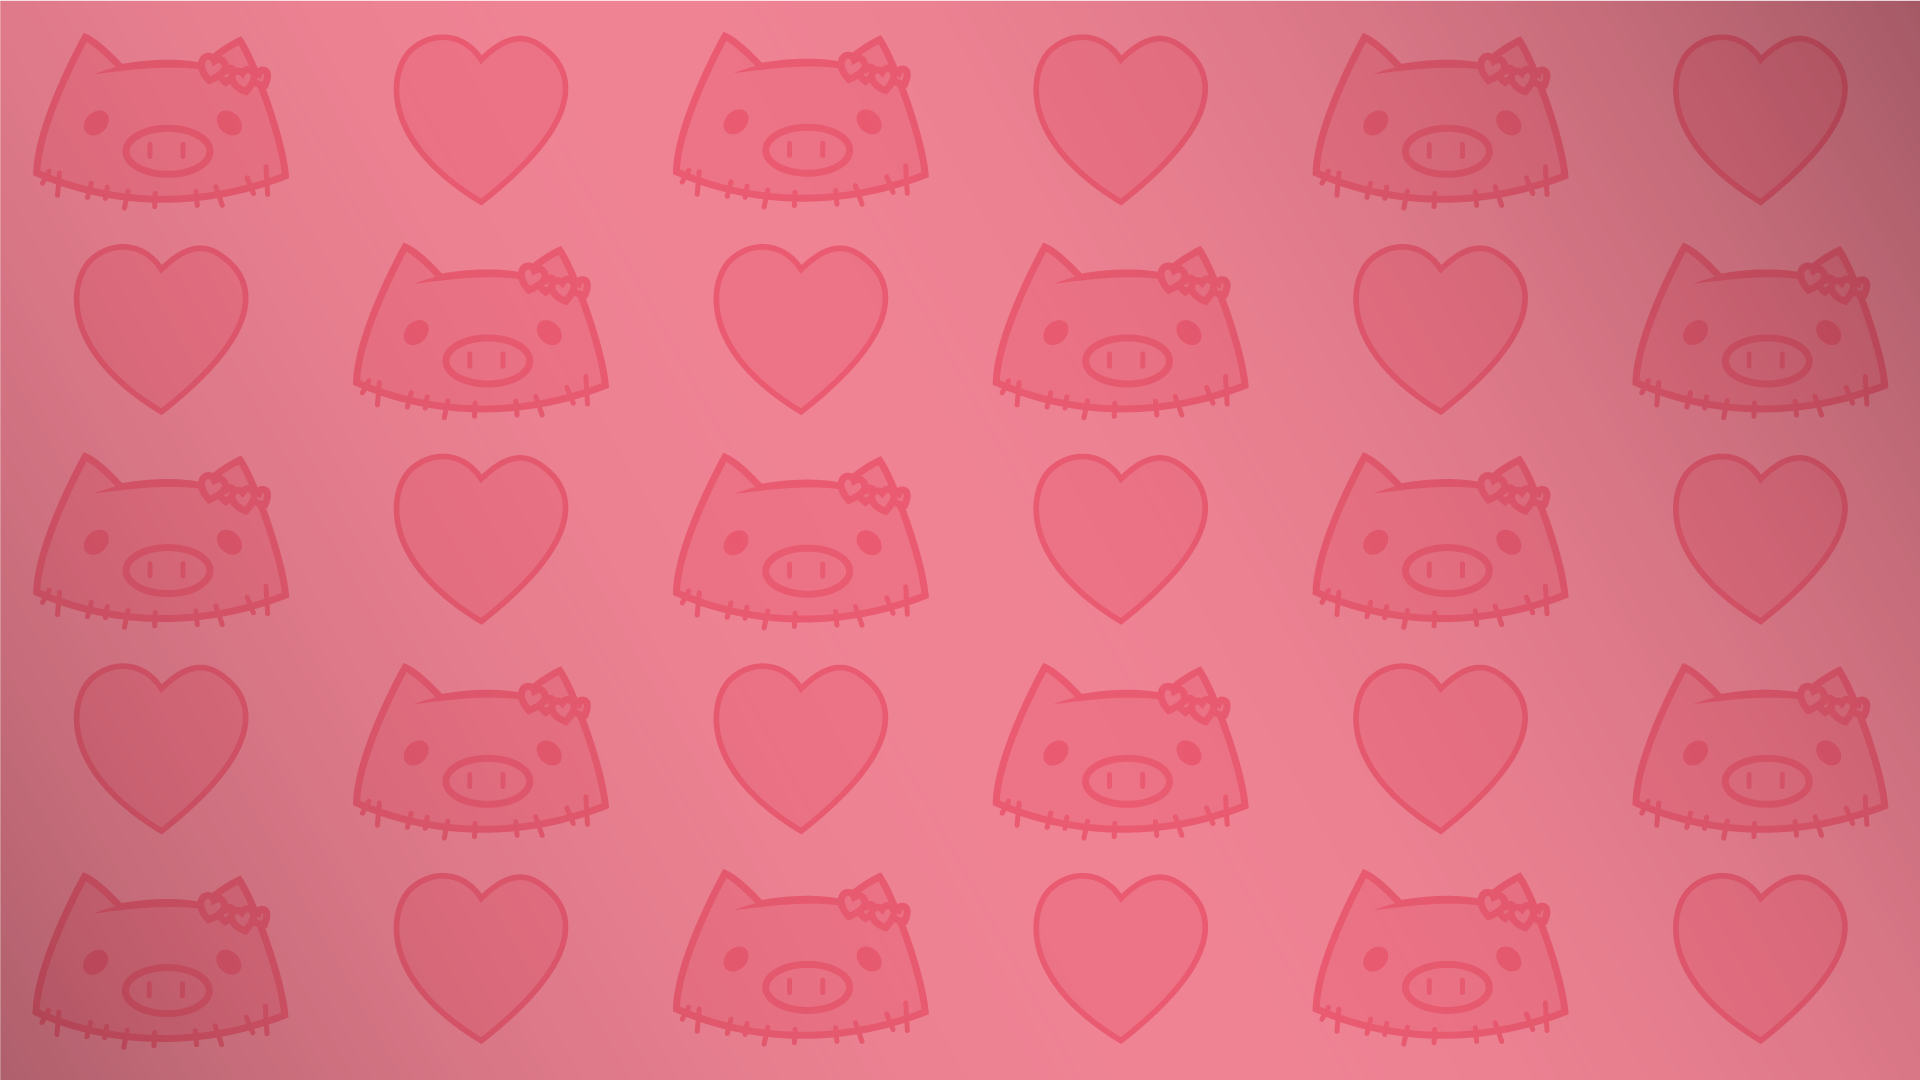
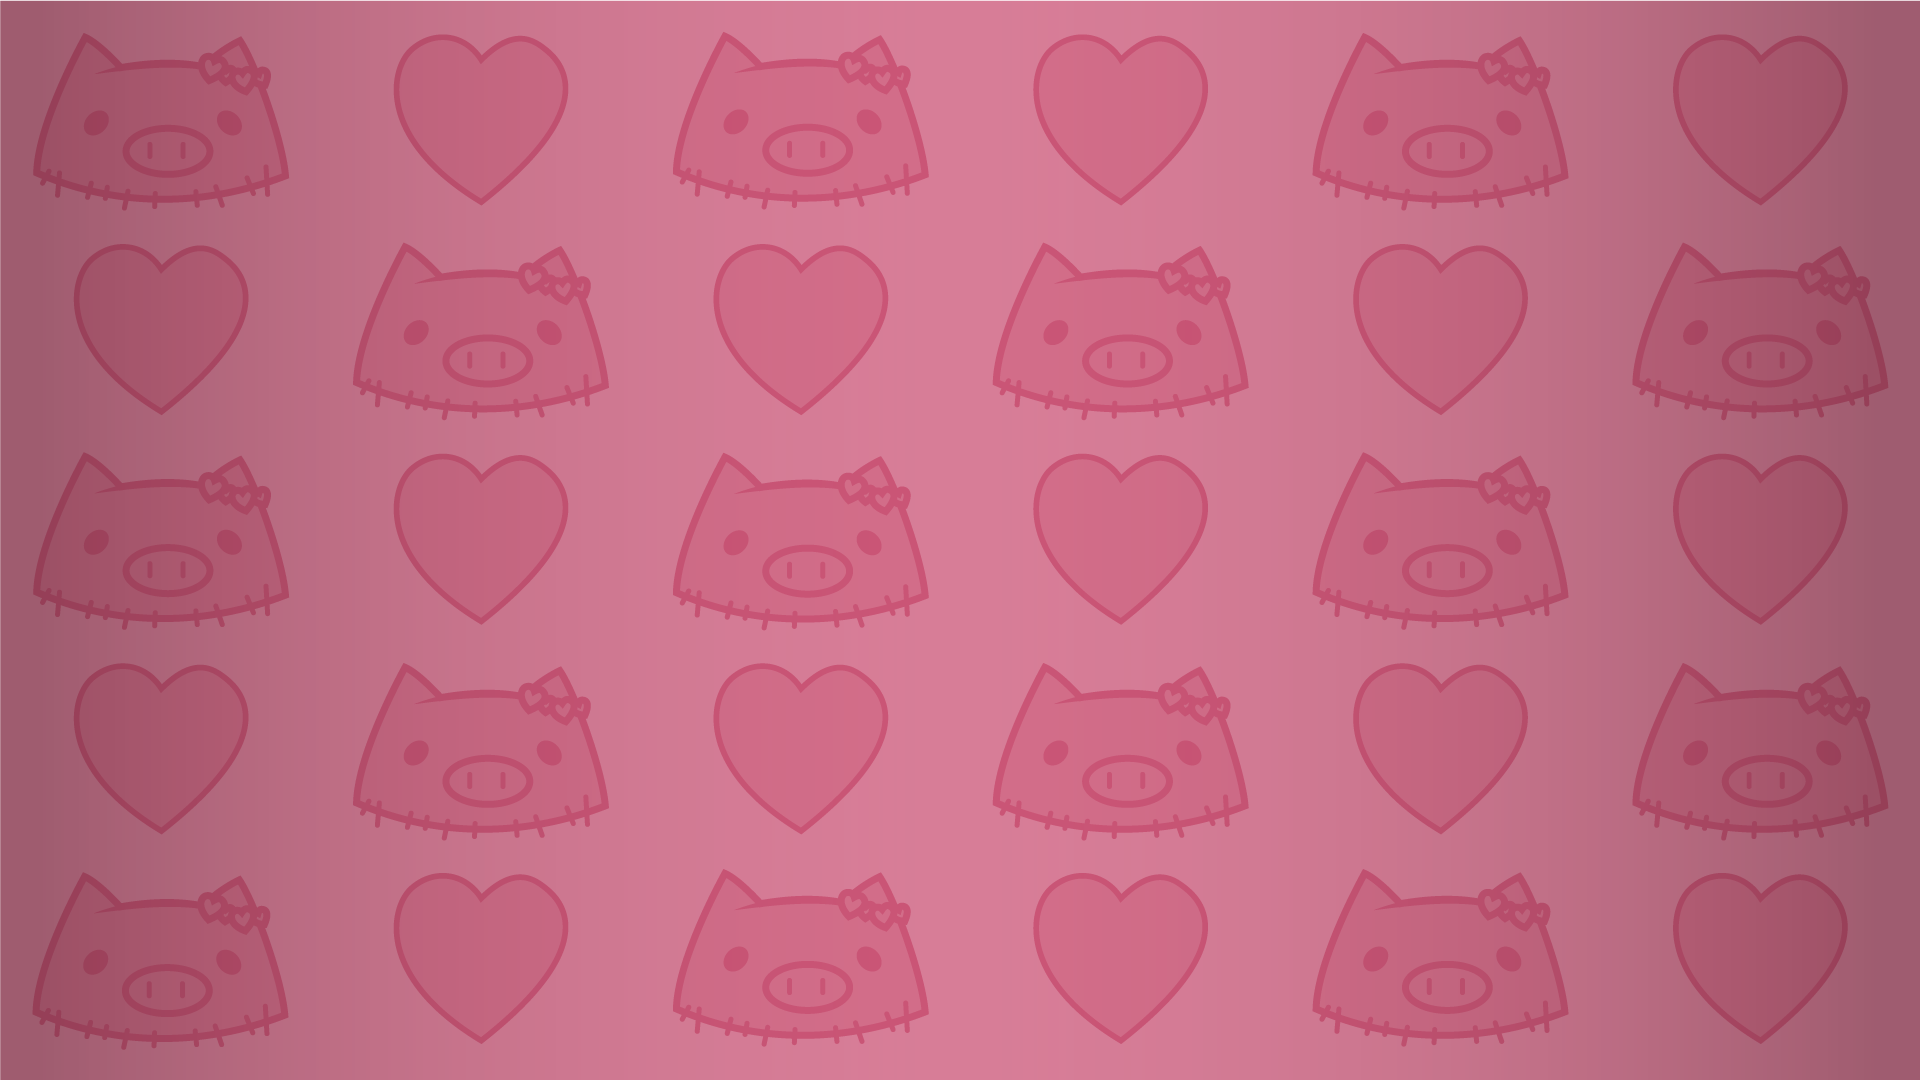
modified news button wordings & update beackgrounf images

diff --git a/src/modules/titled_news.js b/src/modules/titled_news.js
@@ -186,7 +186,7 @@ export default class NewsDataBase extends TitledContainer{
 
     createPageSwitches(aid){
         var cols = new Column(3);
-        cols.setRatios(2, 6, 2); 
+        cols.setRatios(25, 50, 25); 
         
 
         var colId = 0;
@@ -199,9 +199,9 @@ export default class NewsDataBase extends TitledContainer{
 
         const style = {backgroundColor: "crimson", marginTop: 0};
         var lastButton = TitledMediaText.createButton(
-            wrapLanguages({en: "Last", jp:"戻る"}), "", style);
-        var nextButton = TitledMediaText.createButton(
             wrapLanguages({en: "Next", jp:"次へ"}), "", style);
+        var nextButton = TitledMediaText.createButton(
+            wrapLanguages({en: "Previous", jp:"戻る"}), "", style);
 
         for(let i of [aid-1, aid+1]){
             i+=articlesNews.length;

diff --git a/src/pages/current_event.js b/src/pages/current_event.js
@@ -148,7 +148,7 @@ function createWriters(){
     console.log(videoTexts);
     var details = new ProjectDetails();
 
-    details.setContourColor(181, 38, 59, 0.4);
+    details.setContourColor(181, 0, 0, 0.4);
     details.setSuptitle(videoTexts.suptitle);
     details.setBackgroundImage("fig/background/red.png");
 
@@ -187,7 +187,7 @@ function createArtists(){
     console.log(videoTexts);
     var details = new ProjectDetails();
 
-    details.setContourColor(186, 0, 0,0.4);
+    details.setContourColor(186, 38, 59,0.4);
     details.setSuptitle(videoTexts.suptitle);
     details.setBackgroundImage("fig/background/pink.png");
 
